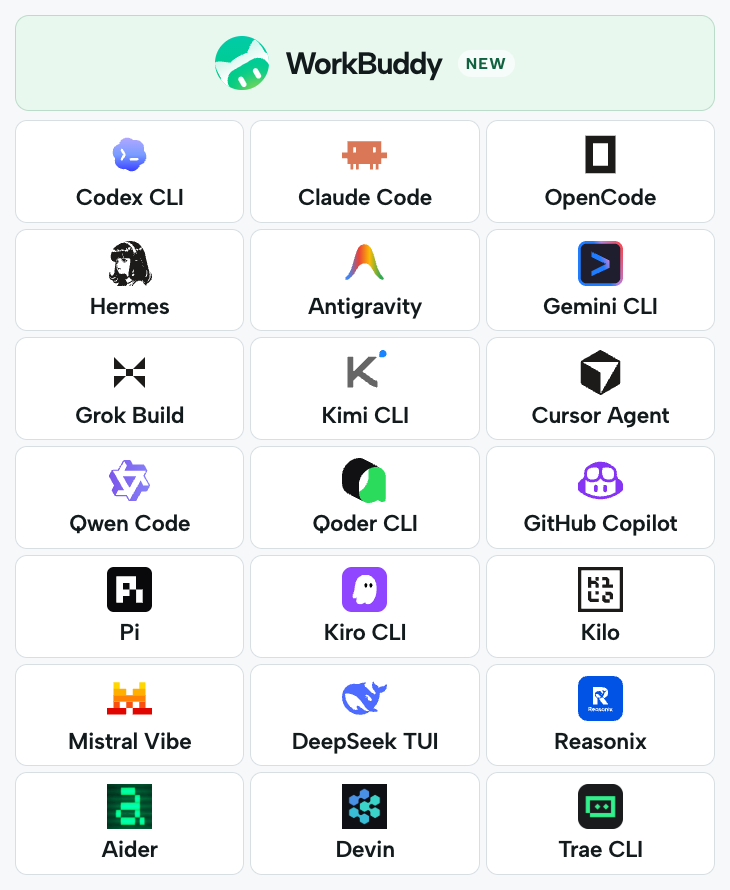
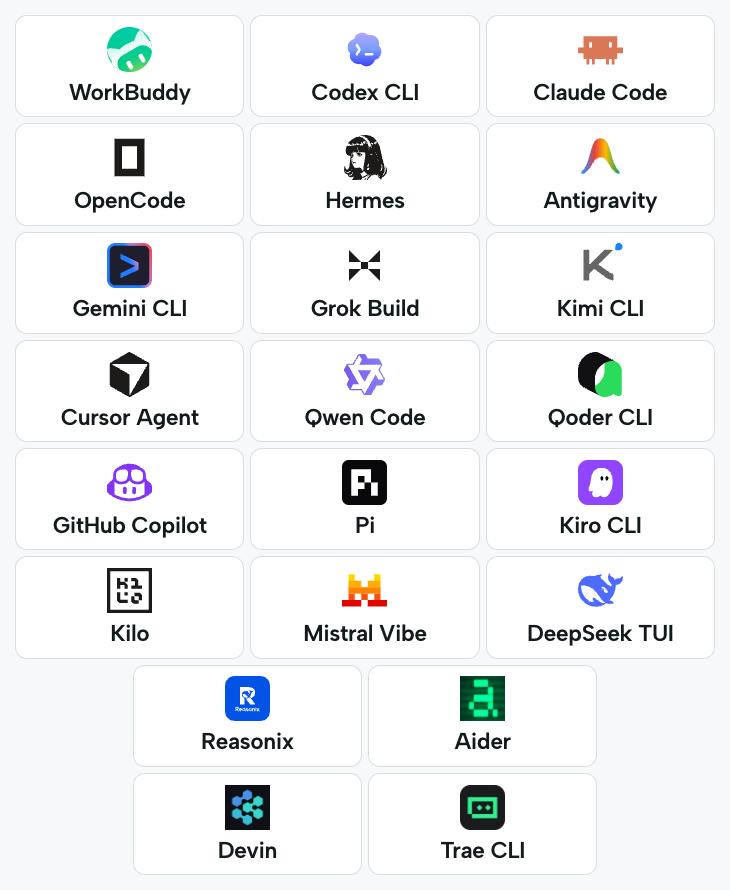
Give every agent an equal gallery card and shorten the cover label

Changed region(s): [[0.0301, 0.0303, 0.9644, 0.9708], [0.6329, 0.0607, 0.6932, 0.091]]

diff --git a/README.REVERSE-ENGINEERING.md b/README.REVERSE-ENGINEERING.md
@@ -34,7 +34,7 @@ The remake is an editable HTML project. Fine-tune the cut in Studio and export a
 
 <a id="agent-wall"></a>
 
-**22 local agents** · [New in OpenMotion: WorkBuddy](#workbuddy-setup) · [Choose your agent](#choose-agent)
+**22 local agents** · [Choose your agent](#choose-agent)
 
 <p align="center"><a href="#choose-agent"><picture><source media="(max-width: 600px)" srcset="docs/readme/agents/local-agents.mobile.png"><img src="docs/readme/agents/local-agents.png" width="100%" alt="WorkBuddy, Codex CLI, Claude Code, OpenCode, Hermes, Antigravity, Gemini CLI, Grok Build, Kimi CLI, Cursor Agent, Qwen Code, Qoder CLI, GitHub Copilot, Pi, Kiro CLI, Kilo, Mistral Vibe, DeepSeek TUI, Reasonix, Aider, Devin, Trae CLI"></picture></a></p>
 

diff --git a/README.md b/README.md
@@ -36,7 +36,7 @@ The remake is an editable HTML project. Fine-tune the cut in Studio and export a
 
 <a id="agent-wall"></a>
 
-**22 local agents** · [New in OpenMotion: WorkBuddy](#workbuddy-setup) · [Choose your agent](#choose-agent)
+**22 local agents** · [Choose your agent](#choose-agent)
 
 <p align="center"><a href="#choose-agent"><picture><source media="(max-width: 600px)" srcset="docs/readme/agents/local-agents.mobile.png"><img src="docs/readme/agents/local-agents.png" width="100%" alt="WorkBuddy, Codex CLI, Claude Code, OpenCode, Hermes, Antigravity, Gemini CLI, Grok Build, Kimi CLI, Cursor Agent, Qwen Code, Qoder CLI, GitHub Copilot, Pi, Kiro CLI, Kilo, Mistral Vibe, DeepSeek TUI, Reasonix, Aider, Devin, Trae CLI"></picture></a></p>
 
